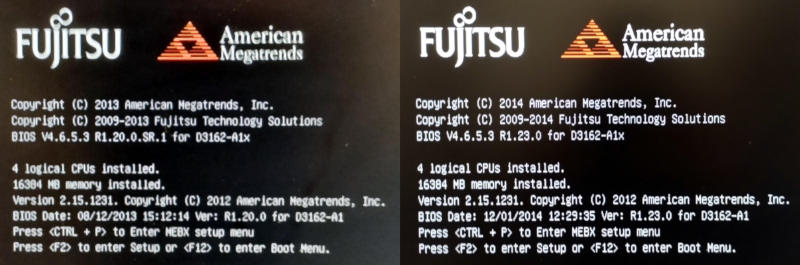
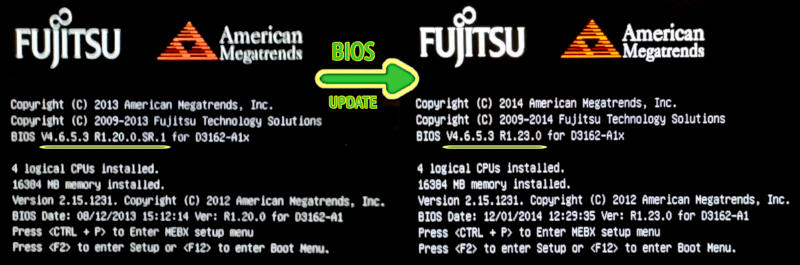
p910-bios-update-and-diagnostics: improved + bug fixes, p.2

diff --git a/html/p910-bios-update-and-diagnostics.html b/html/p910-bios-update-and-diagnostics.html
@@ -18,27 +18,28 @@
 <style>#printlink { display: inline; } @page { size: legal; margin: 0.50in 13.88mm 0.50in 13.88mm; zoom: 100%; } @media print { html { zoom: 100%; } }</style>
 <p class='topbar'></p>
 <div class='topbar' width='800px' translate='no'><b id='menu' onClick='nextStylesheet()'>&thinsp;&#9783;&thinsp;&Ropf;</b> &thinsp;&mdash;&thinsp; &#8543;&#8239;release: <b class='topbar'>2025-02-04&nbsp;<sup class='date-type topbar' id='datenote'>(&hairsp;<a href='#date-legenda' class='date-type topbar'>1</a>&hairsp;)</sup></b>  &thinsp;&mdash;&thinsp; rev.: <b class='topbar
-'>2</b rev_num='
+'>3</b rev_num='
 '> &thinsp;&mdash;&thinsp; transl.:&nbsp; <a class='topbar' href='https://robang74-github-io.translate.goog/chatbots-for-fun/html/p910-bios-update-and-diagnostics?_x_tr_sl=en&_x_tr_tl=it&_x_tr_hl=it-IT&_x_tr_pto=wapp' target='_blank' rel='noopener noreferrer'>IT</a> &nbsp;<b>&middot;</b>&nbsp; <a class='topbar' href='https://robang74-github-io.translate.goog/chatbots-for-fun/html/p910-bios-update-and-diagnostics?_x_tr_sl=en&_x_tr_tl=de&_x_tr_hl=de-DE&_x_tr_pto=wapp' target='_blank' rel='noopener noreferrer'>DE</a> &nbsp;<b>&middot;</b>&nbsp; <a class='topbar' href='https://robang74-github-io.translate.goog/chatbots-for-fun/html/p910-bios-update-and-diagnostics?_x_tr_sl=en&_x_tr_tl=fr&_x_tr_hl=fr-FR&_x_tr_pto=wapp' target='_blank' rel='noopener noreferrer'>FR</a> &nbsp;<b>&middot;</b>&nbsp; <a class='topbar' href='https://robang74-github-io.translate.goog/chatbots-for-fun/html/p910-bios-update-and-diagnostics?_x_tr_sl=en&_x_tr_tl=es&_x_tr_hl=es-ES&_x_tr_pto=wapp' target='_blank' rel='noopener noreferrer'>ES</a> &thinsp;&mdash;&thinsp; goto:&nbsp; <a class='topbar' href='../index.html#index'>.&#x27F0;.</a> &nbsp;<b>&middot;</b>&nbsp; <a class='topbar' href='../../roberto-a-foglietta/index.html'target=_blank>RAF</a> &nbsp;<b>&middot;</b>&nbsp; <a class='topbar' href='../../chatgpt-answered-prompts/index.html'target=_blank>Q&A</a> <span id='printlink'>&thinsp;&mdash;&thinsp; <b>⎙</b>&hairsp;: <a aria-label='print this page' class='topbar' href='javascript:window.print()'>PDF</a></span>&nbsp;</div>
 <div id="firstdiv">
 <p class='topbar'></p>
-<div align="center"><img class="wbsketch inksave" src="../img/fujitsu-p910-e85plus-bios-screen-2s.jpg"><br></div>
+<div align="center"><img class="wbsketch paleinv inksave" src="../img/fujitsu-p910-e85plus-bios-screen-2s.jpg"><br></div>
 <p></p>
 <H2 id="fujistus-p910-e85-bios-update--diagnostics">Fujistus P910 E85+ BIOS update & diagnostics</H2>
 <p></p>
-This document show
+This document explain how to create an USB 64MB bootable stick based on FreeDOS that can provide BIOS update, diagnostic and flasher tools.
+It is specifically tailored for Esprimo P910 E85+ but it can be used as canvas for every other PC/laptop for which DOS tools are available.
 <p></p>
 <hr>
 <p></p>
 <H3 id="1-freedos-bootable-usb-image">1. FreeDOS bootable USB image</H3>
 <p></p>
-<li class='li2in'><b>source</b>: <a href="https://www.freedos.org/download/" target='_blank' rel='noopener noreferrer'>download area</a></li>
+<li><b>Source</b>: <a href="https://www.freedos.org/download/" target='_blank' rel='noopener noreferrer'>download page</a></li>
 <p></p>
 <hr class="post-it">
 <p></p>
 <H3 id="2-last-stable-liteusb-">2. Last stable LiteUSB </H3>
 <p></p>
-<li class='li2in'><b>source</b>: <a href="https://www.ibiblio.org/pub/micro/pc-stuff/freedos/files/distributions/1.3/official/FD13-LiteUSB.zip" target='_blank' rel='noopener noreferrer'>FreeDOS 1.3 Lite USB</a></li>
+<li><b>Source</b>: <a href="https://www.ibiblio.org/pub/micro/pc-stuff/freedos/files/distributions/1.3/official/FD13-LiteUSB.zip" target='_blank' rel='noopener noreferrer'>FreeDOS 1.3 Lite USB</a></li>
 <p></p>
 <li class='li2in'>wget&nbsp;:&nbsp;$archive</li>
 <li class='li2in'>unzip&nbsp;:&nbsp;$archive</li>
@@ -50,7 +51,7 @@ This document show
 <p></p>
 <H3 id="3-fujitsu-support">3. Fujitsu support</H3>
 <p></p>
-<li class='li2in'><b>source</b>: <a href="https://support.ts.fujitsu.com/IndexQuickSearchResult.asp" target='_blank' rel='noopener noreferrer'>Quick search</a> &nbsp;&ndash;&nbsp; <b>keyword</b>: D3162-A1x</li>
+<li><b>Source</b>: <a href="https://support.ts.fujitsu.com/IndexQuickSearchResult.asp" target='_blank' rel='noopener noreferrer'>Quick search</a> &nbsp;&ndash;&nbsp; <b>keyword</b>: D3162-A1x</li>
 <p></p>
 <hr class="post-it">
 <p></p>
@@ -58,36 +59,29 @@ This document show
 <p></p>
 <div class="post-it"><b class="post-it">&#9432;</b>
 <p></p>
-System Diagnostics DOS (USB Stick)
-<p></p>
-Versione: 4.06.131206 (05/12/2013)
-<p></p>
-Dimensione: 10.43 MB
-<p></p>
-MD5: EA755F40B1156A12A0DC23707BB539ED
-<p></p>
+System Diagnostics DOS (USB Stick)<br>
+Versione: 4.06.131206 (05/12/2013)<br>
+Dimensione: 10.43 MB<br>
+MD5: EA755F40B1156A12A0DC23707BB539ED<br>
 SHA256: 32EF5E94C820745C19323BC039186E253D7C2153C2F783667C9D8F17C6857D86
 <p></p>
 </div>
 <p></p>
-<li class='li2in'><b>source</b>: <a href="https://support.ts.fujitsu.com/IndexDownload.asp?SoftwareGuid=DCC1A861-C236-4D84-ADBA-FC78E0B51D7E" target='_blank' rel='noopener noreferrer'>FTS System Diagnostics DOS USB Stick</a></li>
+<li><b>Source</b>: <a href="https://support.ts.fujitsu.com/IndexDownload.asp?SoftwareGuid=DCC1A861-C236-4D84-ADBA-FC78E0B51D7E" target='_blank' rel='noopener noreferrer'>FTS System Diagnostics DOS USB Stick</a></li>
 <p></p>
-<li class='li2in'>download&nbsp;:&nbsp;$archive&nbsp;; &nbsp; unzip&nbsp;:&nbsp;$archive&nbsp;; &nbsp; cp&nbsp;:&nbsp;$unzipdir/&ast;/data/&ast;&nbsp;:&nbsp;$usb1dir</li>
+<li class='li2in'>download&nbsp;:&nbsp;$archive&nbsp;</li>
+<li class='li2in'>unzip&nbsp;:&nbsp;$archive&nbsp;:&nbsp;./diag/</li>
 <p></p>
 <blockquote class="code"><code><tt>
-usb1=[usb1 mount-point path]
+dst &lt;= [usb1 mount-point path]
 <p></p>
-sed -e '/\.sys/ s,FREEDOS\\BIN,\FDOS,I' -i ${usb1}/CONFIG.SYS
-<p></p>
-sed -e 's,=[^ ]&ast;\(\\COMMAND.COM\),=\1,gI' -i ${usb1}/fdconfig.sys
-<p></p>
-sed -e 's,\(SET DOSDIR=\).*,\1\\FDOS,I' -e 's,\(%dosdir%\)\\bin,\1,gI' -i ${usb1}/fdauto.bat
-<p></p>
-sed -e "s/%[bram]\{0,3\}DRV%://gI" -e "s,%1:[%\\],,g" -i $(find ${usb1} -iname \&ast;.bat)
-<p></p>
-sed -e "s/bat %DRV%/bat ''/" -i ${usb1}/TOOLS/BASE/me.bat
-<p></p>
-mv ${usb1}/AUTOEXEC.BAT ${usb1}/diag.bat
+cp -arf ./diag/&ast;/data/&ast; ${dst}/<br>
+sed -e '/\.sys/ s,FREEDOS\\BIN,\FDOS,I' -i ${dst}/CONFIG.SYS<br>
+sed -e 's,=[^ ]&ast;\(\\COMMAND.COM\),=\1,gI' -i ${dst}/fdconfig.sys<br>
+sed -e 's,\(SET DOSDIR=\).&ast;,\1\\FDOS,I' -e 's,\(%dosdir%\)\\bin,\1,gI' -i ${dst}/fdauto.bat<br>
+sed -e "s/%[bram]\{0,3\}DRV%://gI" -e "s,%1:[%\\],,g" -i $(find ${dst} -iname \&ast;.bat)<br>
+sed -e "s/bat %DRV%/bat ''/" -i ${dst}/TOOLS/BASE/me.bat<br>
+mv ${dst}/AUTOEXEC.BAT ${dst}/diag.bat
 </tt></code></blockquote>
 <p></p>
 <hr class="post-it">
@@ -96,39 +90,40 @@ mv ${usb1}/AUTOEXEC.BAT ${usb1}/diag.bat
 <p></p>
 <div class="post-it"><b class="post-it">&#9432;</b>
 <p></p>
-D3162-A1x - Admin package - Compressed Flash Files
-<p></p>
-Versione: V4.6.5.3 - R1.23.0 (01/12/2014)
-<p></p>
-Dimensione 43.12 MB
-<p></p>
-MD5: 0149B86EB671F1F60975E1B40445260E
-<p></p>
+D3162-A1x - Admin package - Compressed Flash Files<br>
+Versione: V4.6.5.3 - R1.23.0 (01/12/2014)<br>
+Dimensione 43.12 MB<br>
+MD5: 0149B86EB671F1F60975E1B40445260E<br>
 SHA256: 25832921C80C0FEFD8E92574F7138C0CBFFDC11DA0DD5F3FAFF1DCDED49BD881
 <p></p>
 </div>
 <p></p>
-<li class='li2in'><b>source</b>: <a href="https://support.ts.fujitsu.com/IndexDownload.asp?SoftwareGuid=38A1936D-6452-44EC-A10C-A42039C6F5A2" target='_blank' rel='noopener noreferrer'>FTS D3162A1x Admin package</a></li>
+<li><b>Source</b>: <a href="https://support.ts.fujitsu.com/IndexDownload.asp?SoftwareGuid=38A1936D-6452-44EC-A10C-A42039C6F5A2" target='_blank' rel='noopener noreferrer'>FTS D3162A1x Admin package</a></li>
 <p></p>
-<li class='li2in'>download&nbsp;:&nbsp;$archive&nbsp;;</li>
-<li class='li2in'>unzip&nbsp;:&nbsp;$archive&nbsp;; </li>
-<li class='li2in'>cp&nbsp;:&nbsp;$unzipdir/DOS/&ast;&nbsp;:&nbsp;$usb1dir</li>
-<li class='li2in'>umount&nbsp;:&nbsp;$usb1dir</li>
+<li class='li2in'>download&nbsp;:&nbsp;$archive&nbsp;</li>
+<li class='li2in'>unzip&nbsp;:&nbsp;$archive&nbsp;:&nbsp;./bios/</li>
+<p></p>
+<blockquote class="code"><code><tt>
+dst &lt;= [usb1 mount-point path]
+<p></p>
+cp -arf ./bios/DOS/&ast; ${dst}/<br>
+umount ${dst}/
+</tt></code></blockquote>
 <p></p>
 <hr class="post-it">
 <p></p>
 <H3 id="6. Customised bootable image backup (optional)">6. Customised bootable image backup (optional)</H3>
 <p></p>
 <blockquote class="code"><code><tt>
-usbdisk=[usb disk device]
+usbdisk &lt;= [usb disk device]
 <p></p>
-img="fdos-p910-bios-diag.img"
+umount ${usbdisk}&ast;<br>
+fdisk -l ${usbdisk} | grep ${usbdisk}1<br>
 <p></p>
-fdisk -l ${usbdisk} | grep ${usbdisk}1
+sectors &lt;= [usb disk p1 size in 512 byte sectors, biggest number]
 <p></p>
-sectors=[usb disk p1 size in 512 byte sectors, biggest number]
-<p></p>
-dd if=${usbdisk} count=${sectors} | pigz - >${img}.gz
+image="fdos-p910-bios-diag.img"<br>
+dd if=${usbdisk} count=${sectors} | pigz - >${image}.gz
 </tt></code></blockquote>
 <p></p>
 <hr class="post-it">
@@ -136,13 +131,12 @@ dd if=${usbdisk} count=${sectors} | pigz - >${img}.gz
 <H3 id="7. Post archiving image modding (optional, not required)">7. Post archiving image modding (optional, not required)</H3>
 <p></p>
 <blockquote class="code"><code><tt>
-img="fdos-p910-bios-diag.img"
-<p></p>
-pigz -dc ${img}.gz > ${img}; losetup -Pf ${img}
+image="fdos-p910-bios-diag.img"<br>
+pigz -dc ${image}.gz > ${image}; losetup -Pf ${image}
 <p></p>
 [do whatever you like on loop device 1st partition]
 <p></p>
-losetup -D $(losetup -l | grep ${img} | cut -d' ' -f)
+losetup -D $(losetup -l | grep ${image} | cut -d' ' -f1)
 </tt></code></blockquote>
 <p></p>
 <div class="pagebreak"><hr class="post-it"></div>

diff --git a/p910-bios-update-and-diagnostics.md b/p910-bios-update-and-diagnostics.md
@@ -1,23 +1,24 @@
 <div id="firstdiv" created="2025-02-04:EN" style="max-width: 800px; margin: auto; white-space: pre-wrap; text-align: justify;">
 <style>#printlink { display: inline; } @page { size: legal; margin: 0.50in 13.88mm 0.50in 13.88mm; zoom: 100%; } @media print { html { zoom: 100%; } }</style>
 
-<div align="center"><img class="wbsketch inksave" src="img/fujitsu-p910-e85plus-bios-screen-2s.jpg"><br></div>
+<div align="center"><img class="wbsketch paleinv inksave" src="img/fujitsu-p910-e85plus-bios-screen-2s.jpg"><br></div>
 
 ## Fujistus P910 E85+ BIOS update & diagnostics
 
-This document show
+This document explain how to create an USB 64MB bootable stick based on FreeDOS that can provide BIOS update, diagnostic and flasher tools.
+It is specifically tailored for Esprimo P910 E85+ but it can be used as canvas for every other PC/laptop for which DOS tools are available.
 
 ---
 
 ### 1. FreeDOS bootable USB image
 
-   - **source**: [download area](https://www.freedos.org/download/)
+- **Source**: [download page](https://www.freedos.org/download/)
 
 ...
 
 ### 2. Last stable LiteUSB 
 
-   - **source**: [FreeDOS 1.3 Lite USB](https://www.ibiblio.org/pub/micro/pc-stuff/freedos/files/distributions/1.3/official/FD13-LiteUSB.zip)
+- **Source**: [FreeDOS 1.3 Lite USB](https://www.ibiblio.org/pub/micro/pc-stuff/freedos/files/distributions/1.3/official/FD13-LiteUSB.zip)
 
    - wget&nbsp;:&nbsp;$archive
    - unzip&nbsp;:&nbsp;$archive
@@ -29,7 +30,7 @@ This document show
 
 ### 3. Fujitsu support
 
-   - **source**: [Quick search](https://support.ts.fujitsu.com/IndexQuickSearchResult.asp) &nbsp;&ndash;&nbsp; **keyword**: D3162-A1x
+- **Source**: [Quick search](https://support.ts.fujitsu.com/IndexQuickSearchResult.asp) &nbsp;&ndash;&nbsp; **keyword**: D3162-A1x
 
 ...
 
@@ -37,36 +38,29 @@ This document show
 
 [!INFO]
 
-System Diagnostics DOS (USB Stick)
-
-Versione: 4.06.131206 (05/12/2013)
-
-Dimensione: 10.43 MB
-
-MD5: EA755F40B1156A12A0DC23707BB539ED
-
+System Diagnostics DOS (USB Stick)<br>
+Versione: 4.06.131206 (05/12/2013)<br>
+Dimensione: 10.43 MB<br>
+MD5: EA755F40B1156A12A0DC23707BB539ED<br>
 SHA256: 32EF5E94C820745C19323BC039186E253D7C2153C2F783667C9D8F17C6857D86
 
 [/INFO]
 
-   - **source**: [FTS System Diagnostics DOS USB Stick](https://support.ts.fujitsu.com/IndexDownload.asp?SoftwareGuid=DCC1A861-C236-4D84-ADBA-FC78E0B51D7E)
+- **Source**: [FTS System Diagnostics DOS USB Stick](https://support.ts.fujitsu.com/IndexDownload.asp?SoftwareGuid=DCC1A861-C236-4D84-ADBA-FC78E0B51D7E)
 
-   - download&nbsp;:&nbsp;$archive&nbsp;; &nbsp; unzip&nbsp;:&nbsp;$archive&nbsp;; &nbsp; cp&nbsp;:&nbsp;$unzipdir/&ast;/data/&ast;&nbsp;:&nbsp;$usb1dir
+   - download&nbsp;:&nbsp;$archive&nbsp;
+   - unzip&nbsp;:&nbsp;$archive&nbsp;:&nbsp;./diag/
 
 [!CODE]
-usb1=[usb1 mount-point path]
+dst &lt;= [usb1 mount-point path]
 
-sed -e '/\.sys/ s,FREEDOS\\BIN,\FDOS,I' -i ${usb1}/CONFIG.SYS
-
-sed -e 's,=[^ ]&ast;\(\\COMMAND.COM\),=\1,gI' -i ${usb1}/fdconfig.sys
-
-sed -e 's,\(SET DOSDIR=\).*,\1\\FDOS,I' -e 's,\(%dosdir%\)\\bin,\1,gI' -i ${usb1}/fdauto.bat
-
-sed -e "s/%[bram]\{0,3\}DRV%://gI" -e "s,%1:[%\\],,g" -i $(find ${usb1} -iname \&ast;.bat)
-
-sed -e "s/bat %DRV%/bat ''/" -i ${usb1}/TOOLS/BASE/me.bat
-
-mv ${usb1}/AUTOEXEC.BAT ${usb1}/diag.bat
+cp -arf ./diag/&ast;/data/&ast; ${dst}/<br>
+sed -e '/\.sys/ s,FREEDOS\\BIN,\FDOS,I' -i ${dst}/CONFIG.SYS<br>
+sed -e 's,=[^ ]&ast;\(\\COMMAND.COM\),=\1,gI' -i ${dst}/fdconfig.sys<br>
+sed -e 's,\(SET DOSDIR=\).&ast;,\1\\FDOS,I' -e 's,\(%dosdir%\)\\bin,\1,gI' -i ${dst}/fdauto.bat<br>
+sed -e "s/%[bram]\{0,3\}DRV%://gI" -e "s,%1:[%\\],,g" -i $(find ${dst} -iname \&ast;.bat)<br>
+sed -e "s/bat %DRV%/bat ''/" -i ${dst}/TOOLS/BASE/me.bat<br>
+mv ${dst}/AUTOEXEC.BAT ${dst}/diag.bat
 [/CODE]
 
 ...
@@ -75,39 +69,40 @@ mv ${usb1}/AUTOEXEC.BAT ${usb1}/diag.bat
 
 [!INFO]
 
-D3162-A1x - Admin package - Compressed Flash Files
-
-Versione: V4.6.5.3 - R1.23.0 (01/12/2014)
-
-Dimensione 43.12 MB
-
-MD5: 0149B86EB671F1F60975E1B40445260E
-
+D3162-A1x - Admin package - Compressed Flash Files<br>
+Versione: V4.6.5.3 - R1.23.0 (01/12/2014)<br>
+Dimensione 43.12 MB<br>
+MD5: 0149B86EB671F1F60975E1B40445260E<br>
 SHA256: 25832921C80C0FEFD8E92574F7138C0CBFFDC11DA0DD5F3FAFF1DCDED49BD881
 
 [/INFO]
 
-   - **source**: [FTS D3162A1x Admin package](https://support.ts.fujitsu.com/IndexDownload.asp?SoftwareGuid=38A1936D-6452-44EC-A10C-A42039C6F5A2)
+- **Source**: [FTS D3162A1x Admin package](https://support.ts.fujitsu.com/IndexDownload.asp?SoftwareGuid=38A1936D-6452-44EC-A10C-A42039C6F5A2)
 
-   - download&nbsp;:&nbsp;$archive&nbsp;;
-   - unzip&nbsp;:&nbsp;$archive&nbsp;; 
-   - cp&nbsp;:&nbsp;$unzipdir/DOS/&ast;&nbsp;:&nbsp;$usb1dir
-   - umount&nbsp;:&nbsp;$usb1dir
+   - download&nbsp;:&nbsp;$archive&nbsp;
+   - unzip&nbsp;:&nbsp;$archive&nbsp;:&nbsp;./bios/
+
+[!CODE]
+dst &lt;= [usb1 mount-point path]
+
+cp -arf ./bios/DOS/&ast; ${dst}/<br>
+umount ${dst}/
+[/CODE]
 
 ...
 
 ### 6. Customised bootable image backup (optional)
 
 [!CODE]
-usbdisk=[usb disk device]
+usbdisk &lt;= [usb disk device]
 
-img="fdos-p910-bios-diag.img"
+umount ${usbdisk}&ast;<br>
+fdisk -l ${usbdisk} | grep ${usbdisk}1<br>
 
-fdisk -l ${usbdisk} | grep ${usbdisk}1
+sectors &lt;= [usb disk p1 size in 512 byte sectors, biggest number]
 
-sectors=[usb disk p1 size in 512 byte sectors, biggest number]
-
-dd if=${usbdisk} count=${sectors} | pigz - >${img}.gz
+image="fdos-p910-bios-diag.img"<br>
+dd if=${usbdisk} count=${sectors} | pigz - >${image}.gz
 [/CODE]
 
 ...
@@ -115,13 +110,12 @@ dd if=${usbdisk} count=${sectors} | pigz - >${img}.gz
 ### 7. Post archiving image modding (optional, not required)
 
 [!CODE]
-img="fdos-p910-bios-diag.img"
-
-pigz -dc ${img}.gz > ${img}; losetup -Pf ${img}
+image="fdos-p910-bios-diag.img"<br>
+pigz -dc ${image}.gz > ${image}; losetup -Pf ${image}
 
 [do whatever you like on loop device 1st partition]
 
-losetup -D $(losetup -l | grep ${img} | cut -d' ' -f)
+losetup -D $(losetup -l | grep ${image} | cut -d' ' -f1)
 [/CODE]
 
 ....
